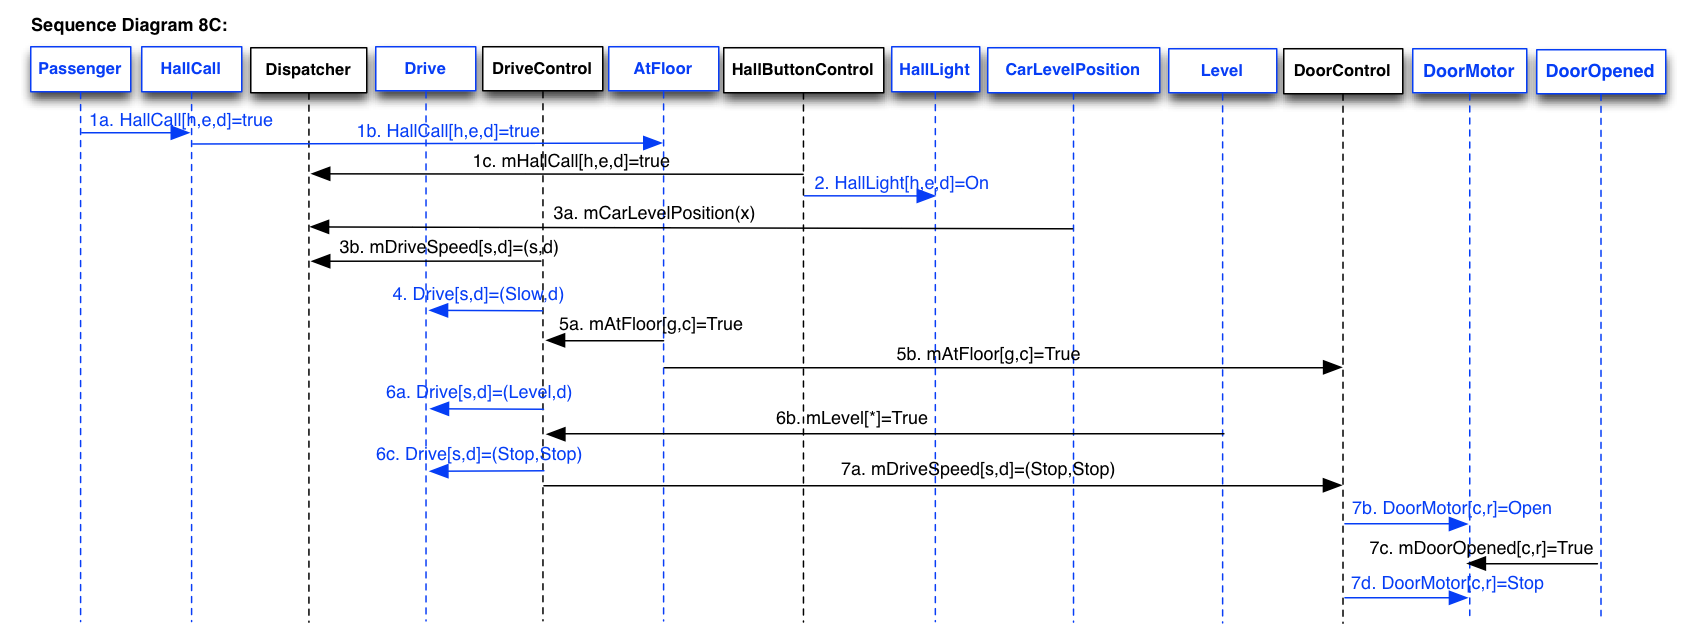
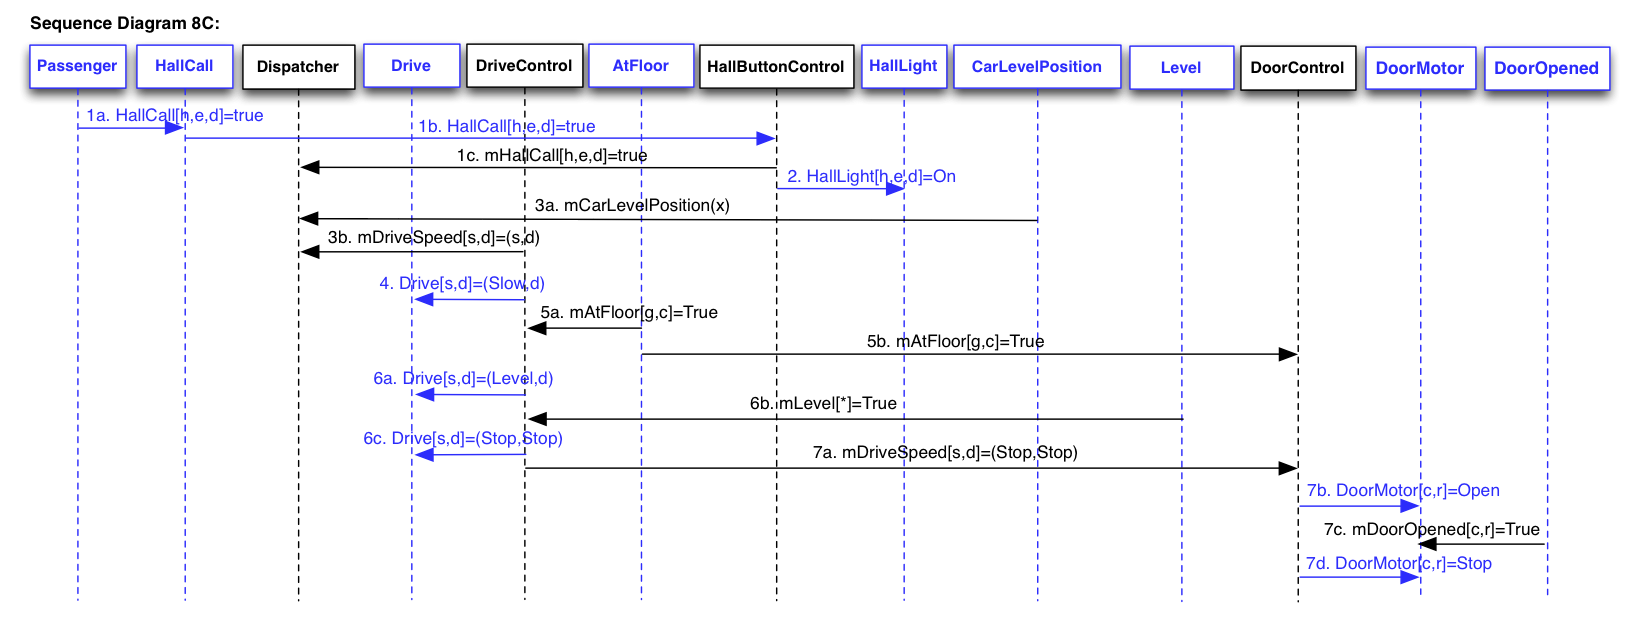
Fixed SD_6A per peer review; Fixed SD_8C per peer review ****ONE ISSUE NOT FIXED ->see PR_SD_8C.xls*********; Updated peerreviewlog.html;

diff --git a/portfolio/logs/peerreviewlog.html b/portfolio/logs/peerreviewlog.html
@@ -432,6 +432,34 @@
           <td valign="top"><a href="SequenceDiagrams/PR_SD_9A.xls">SequenceDiagrams/PR_SD_9A.xls</a><br>
           </td>
         </tr>
+        <tr>
+          <td valign="top">28<br>
+          </td>
+          <td valign="top">10/25<br>
+          </td>
+          <td valign="top">SD6A<br>
+          </td>
+          <td valign="top">jessesal<br>
+          </td>
+          <td valign="top">1<br>
+          </td>
+          <td valign="top"><a href="SequenceDiagrams/PR_SD_6A.xls">SequenceDiagrams/PR_SD_6A.xls</a><br>
+          </td>
+        </tr>
+        <tr>
+          <td valign="top">29<br>
+          </td>
+          <td valign="top">10/25<br>
+          </td>
+          <td valign="top">SD8C<br>
+          </td>
+          <td valign="top">jessesal<br>
+          </td>
+          <td valign="top">2<br>
+          </td>
+          <td valign="top"><a href="SequenceDiagrams/PR_SD_8C.xls">SequenceDiagrams/PR_SD_8C.xls</a><br>
+          </td>
+        </tr>
       </tbody>
     </table>
     <br>
